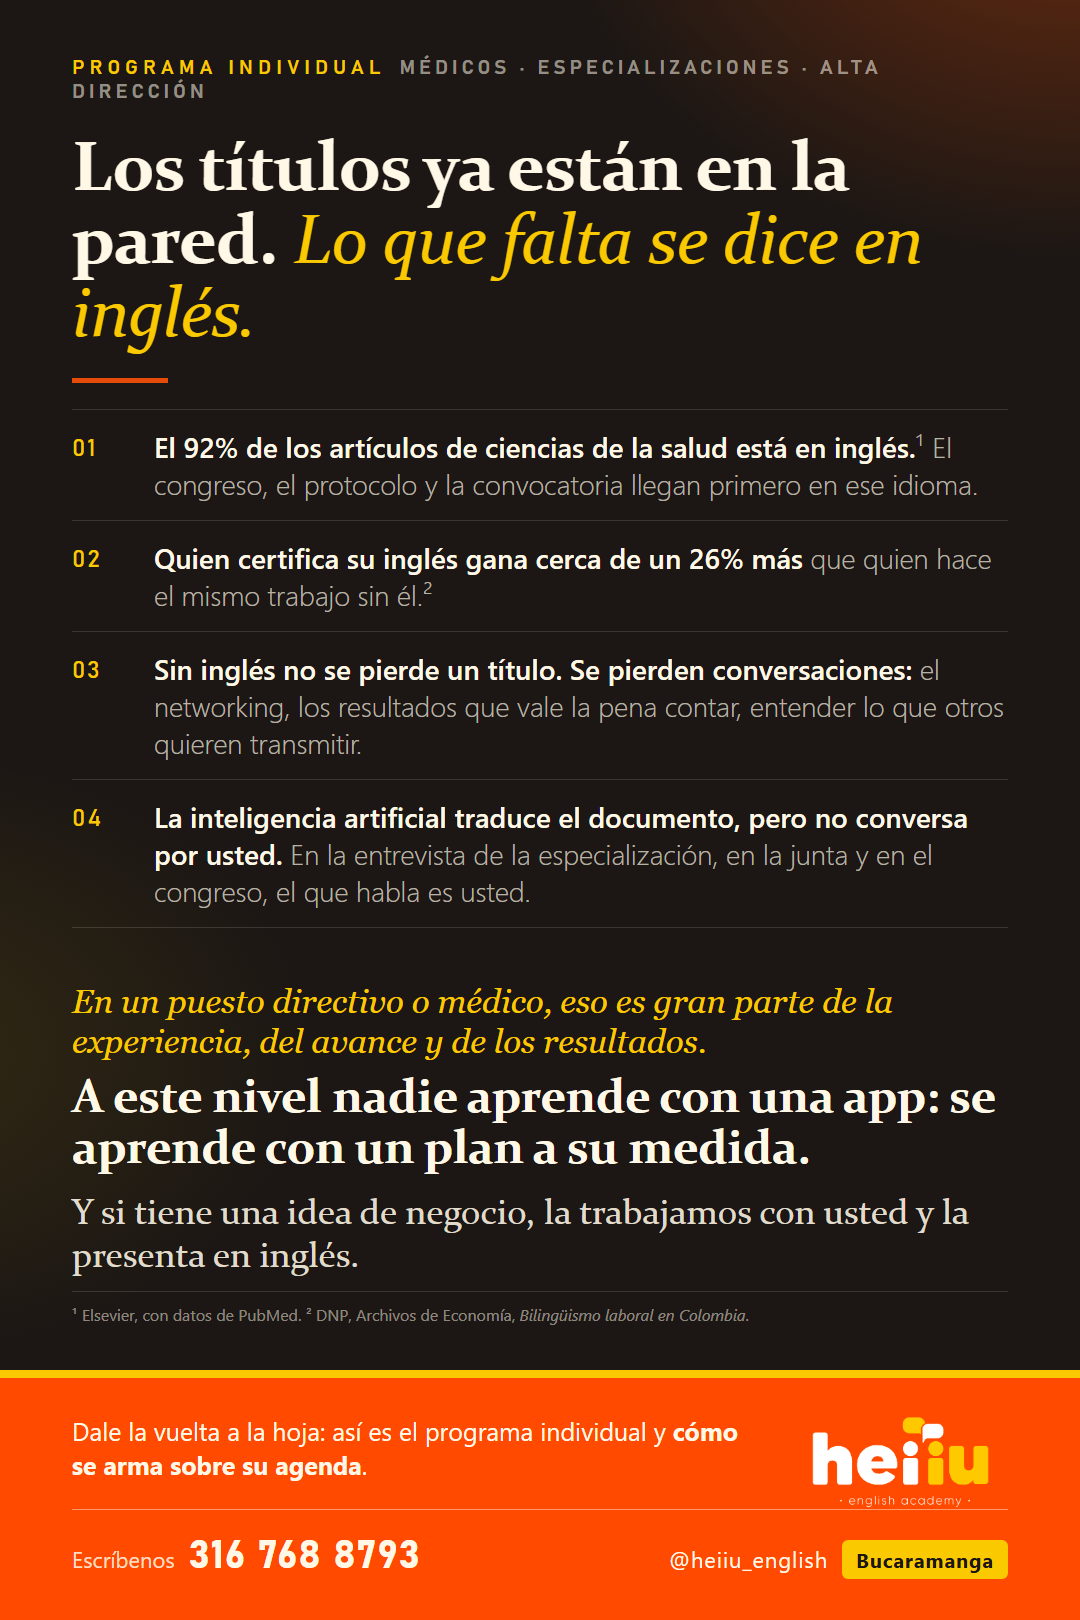
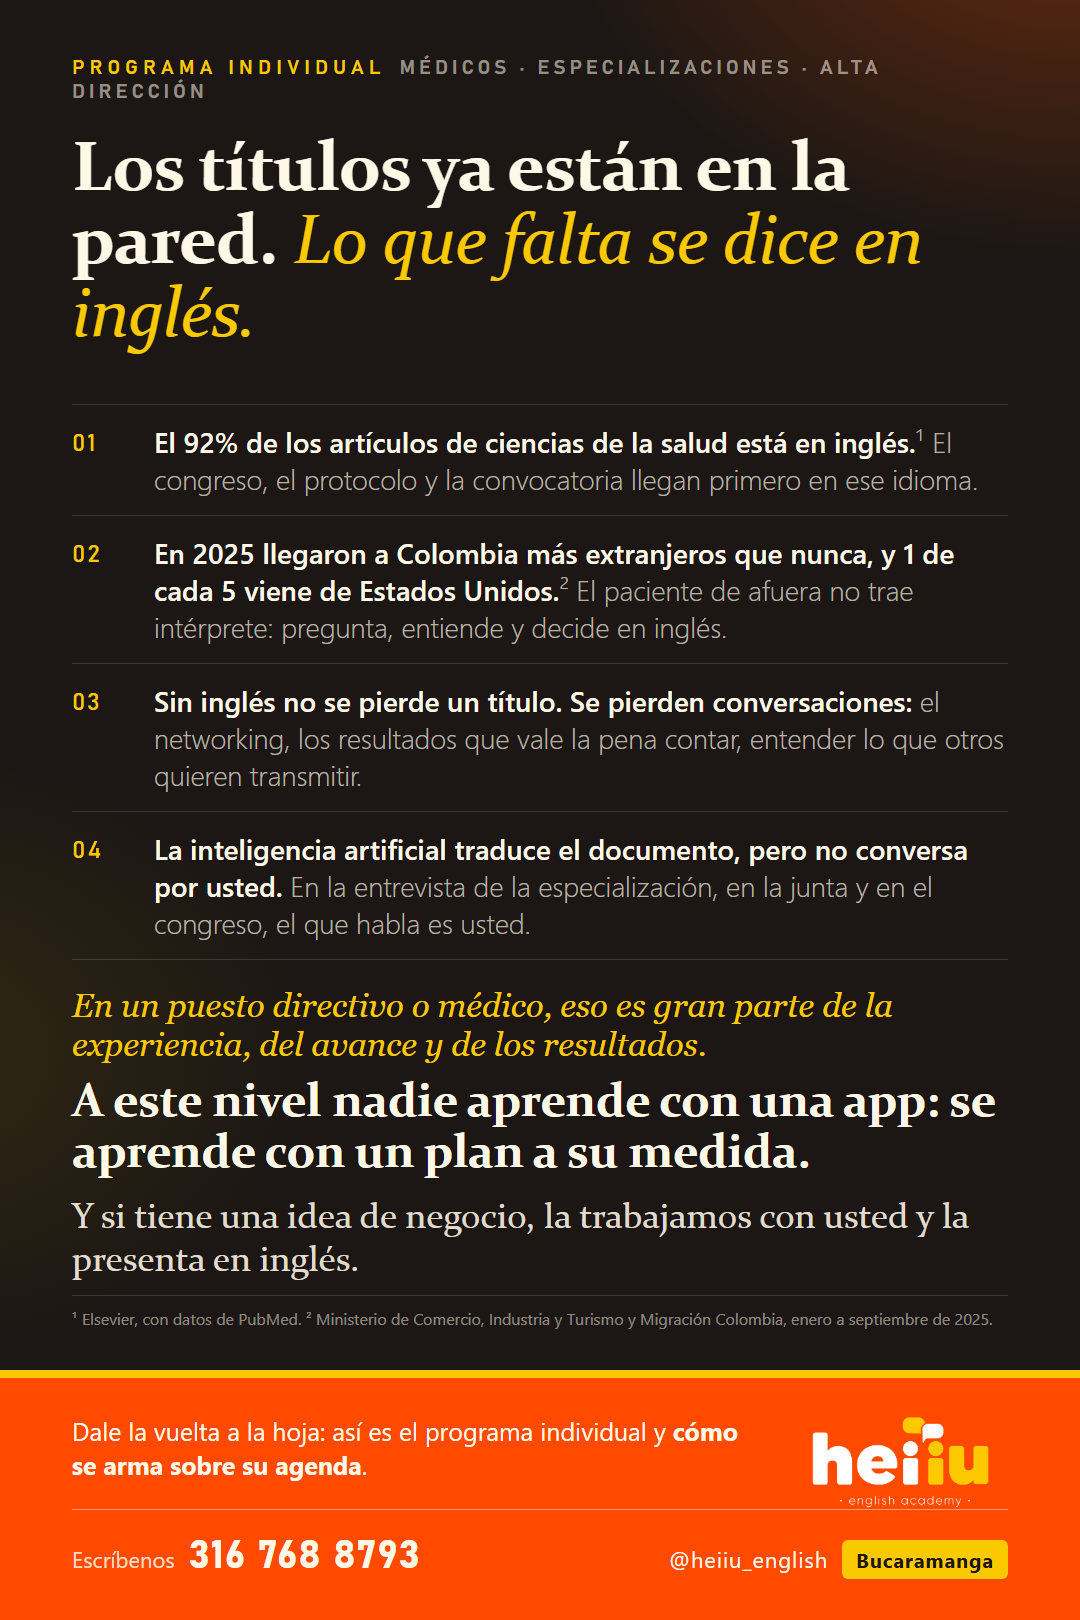
Pieza medicos y directivos: fuera el dato del 26% de ingreso (no aplica a ese publico); entra el paciente extranjero (MinCIT y Migracion 2025)

diff --git a/generadores/comercial/gen_piezas_conciencia.py b/generadores/comercial/gen_piezas_conciencia.py
@@ -188,13 +188,13 @@ PIEZAS = {
         compact=True, label='PROGRAMA INDIVIDUAL', sub='MÉDICOS · ESPECIALIZACIONES · ALTA DIRECCIÓN',
         h1='Los títulos ya están en la pared. <em>Lo que falta se dice en inglés.</em>',
         st=[('<b>El 92% de los artículos de ciencias de la salud está en inglés.</b>¹ El congreso, el protocolo y la convocatoria llegan primero en ese idioma.'),
-            ('<b>Quien certifica su inglés gana cerca de un 26% más</b> que quien hace el mismo trabajo sin él.²'),
+            ('<b>En 2025 llegaron a Colombia más extranjeros que nunca, y 1 de cada 5 viene de Estados Unidos.</b>² El paciente de afuera no trae intérprete: pregunta, entiende y decide en inglés.'),
             ('<b>Sin inglés no se pierde un título. Se pierden conversaciones:</b> el networking, los resultados que vale la pena contar, entender lo que otros quieren transmitir.'),
             ('<b>La inteligencia artificial traduce el documento, pero no conversa por usted.</b> En la entrevista de la especialización, en la junta y en el congreso, el que habla es usted.')],
         lead='En un puesto directivo o médico, eso es gran parte de la experiencia, del avance y de los resultados.',
         big='A este nivel nadie aprende con una app: se aprende con un plan a su medida.',
         big2='Y si tiene una idea de negocio, la trabajamos con usted y la presenta en inglés.',
-        fn='¹ Elsevier, con datos de PubMed. ² DNP, Archivos de Economía, <i>Bilingüismo laboral en Colombia</i>.',
+        fn='¹ Elsevier, con datos de PubMed. ² Ministerio de Comercio, Industria y Turismo y Migración Colombia, enero a septiembre de 2025.',
         band='Dale la vuelta a la hoja: así es el programa individual y <b>cómo se arma sobre su agenda</b>.',
         band_px=250),
     'MEDICOS_DIRECTIVOS_RESPALDO': dict(
@@ -293,11 +293,11 @@ PIEZAS = {
         compact=True, label='PROGRAMA INDIVIDUAL', sub='MÉDICOS · ESPECIALIZACIONES · ALTA DIRECCIÓN',
         h1='Los títulos ya están en la pared. <em>Lo que falta se dice en inglés.</em>',
         st=[('<b>El 92% de los artículos de ciencias de la salud está en inglés.</b>¹ El congreso, el protocolo nuevo y la convocatoria llegan primero en ese idioma.'),
-            ('<b>Quien certifica su inglés gana cerca de un 26% más</b> que quien hace el mismo trabajo sin él.²'),
+            ('<b>En 2025 llegaron a Colombia más extranjeros que nunca, y 1 de cada 5 viene de Estados Unidos.</b>² El paciente de afuera no trae intérprete: pregunta, entiende y decide en inglés.'),
             ('<b>Entrenamos conversaciones avanzadas en su área laboral:</b> la junta, el congreso, el paciente o el cliente de afuera, la entrevista de la especialización. Plan a su medida, audio corto cada día que su profesor devuelve con una mejora, y reporte mensual de su avance.')],
         lead='Sin inglés no se pierde un título. Se pierden conversaciones: el networking, los resultados que vale la pena contar, entender lo que otros quieren transmitir.',
         big='100 horas, uno a uno. No prometemos la admisión ni el ascenso: entrenamos la entrevista y la junta.',
-        big2='Y si tiene una idea de negocio, la trabajamos con usted y la presenta en inglés.', fn='¹ Elsevier, con datos de PubMed. ² DNP, Archivos de Economía, <i>Bilingüismo laboral en Colombia</i>.',
+        big2='Y si tiene una idea de negocio, la trabajamos con usted y la presenta en inglés.', fn='¹ Elsevier, con datos de PubMed. ² Ministerio de Comercio, Industria y Turismo y Migración Colombia, enero a septiembre de 2025.',
         band='Programa individual para médicos, profesionales y directivos. <b>Cupos limitados por disponibilidad de profesor.</b> Agende una asesoría de 15 minutos.',
         band_px=290),
     'RECEPCION_CORTA': dict(
